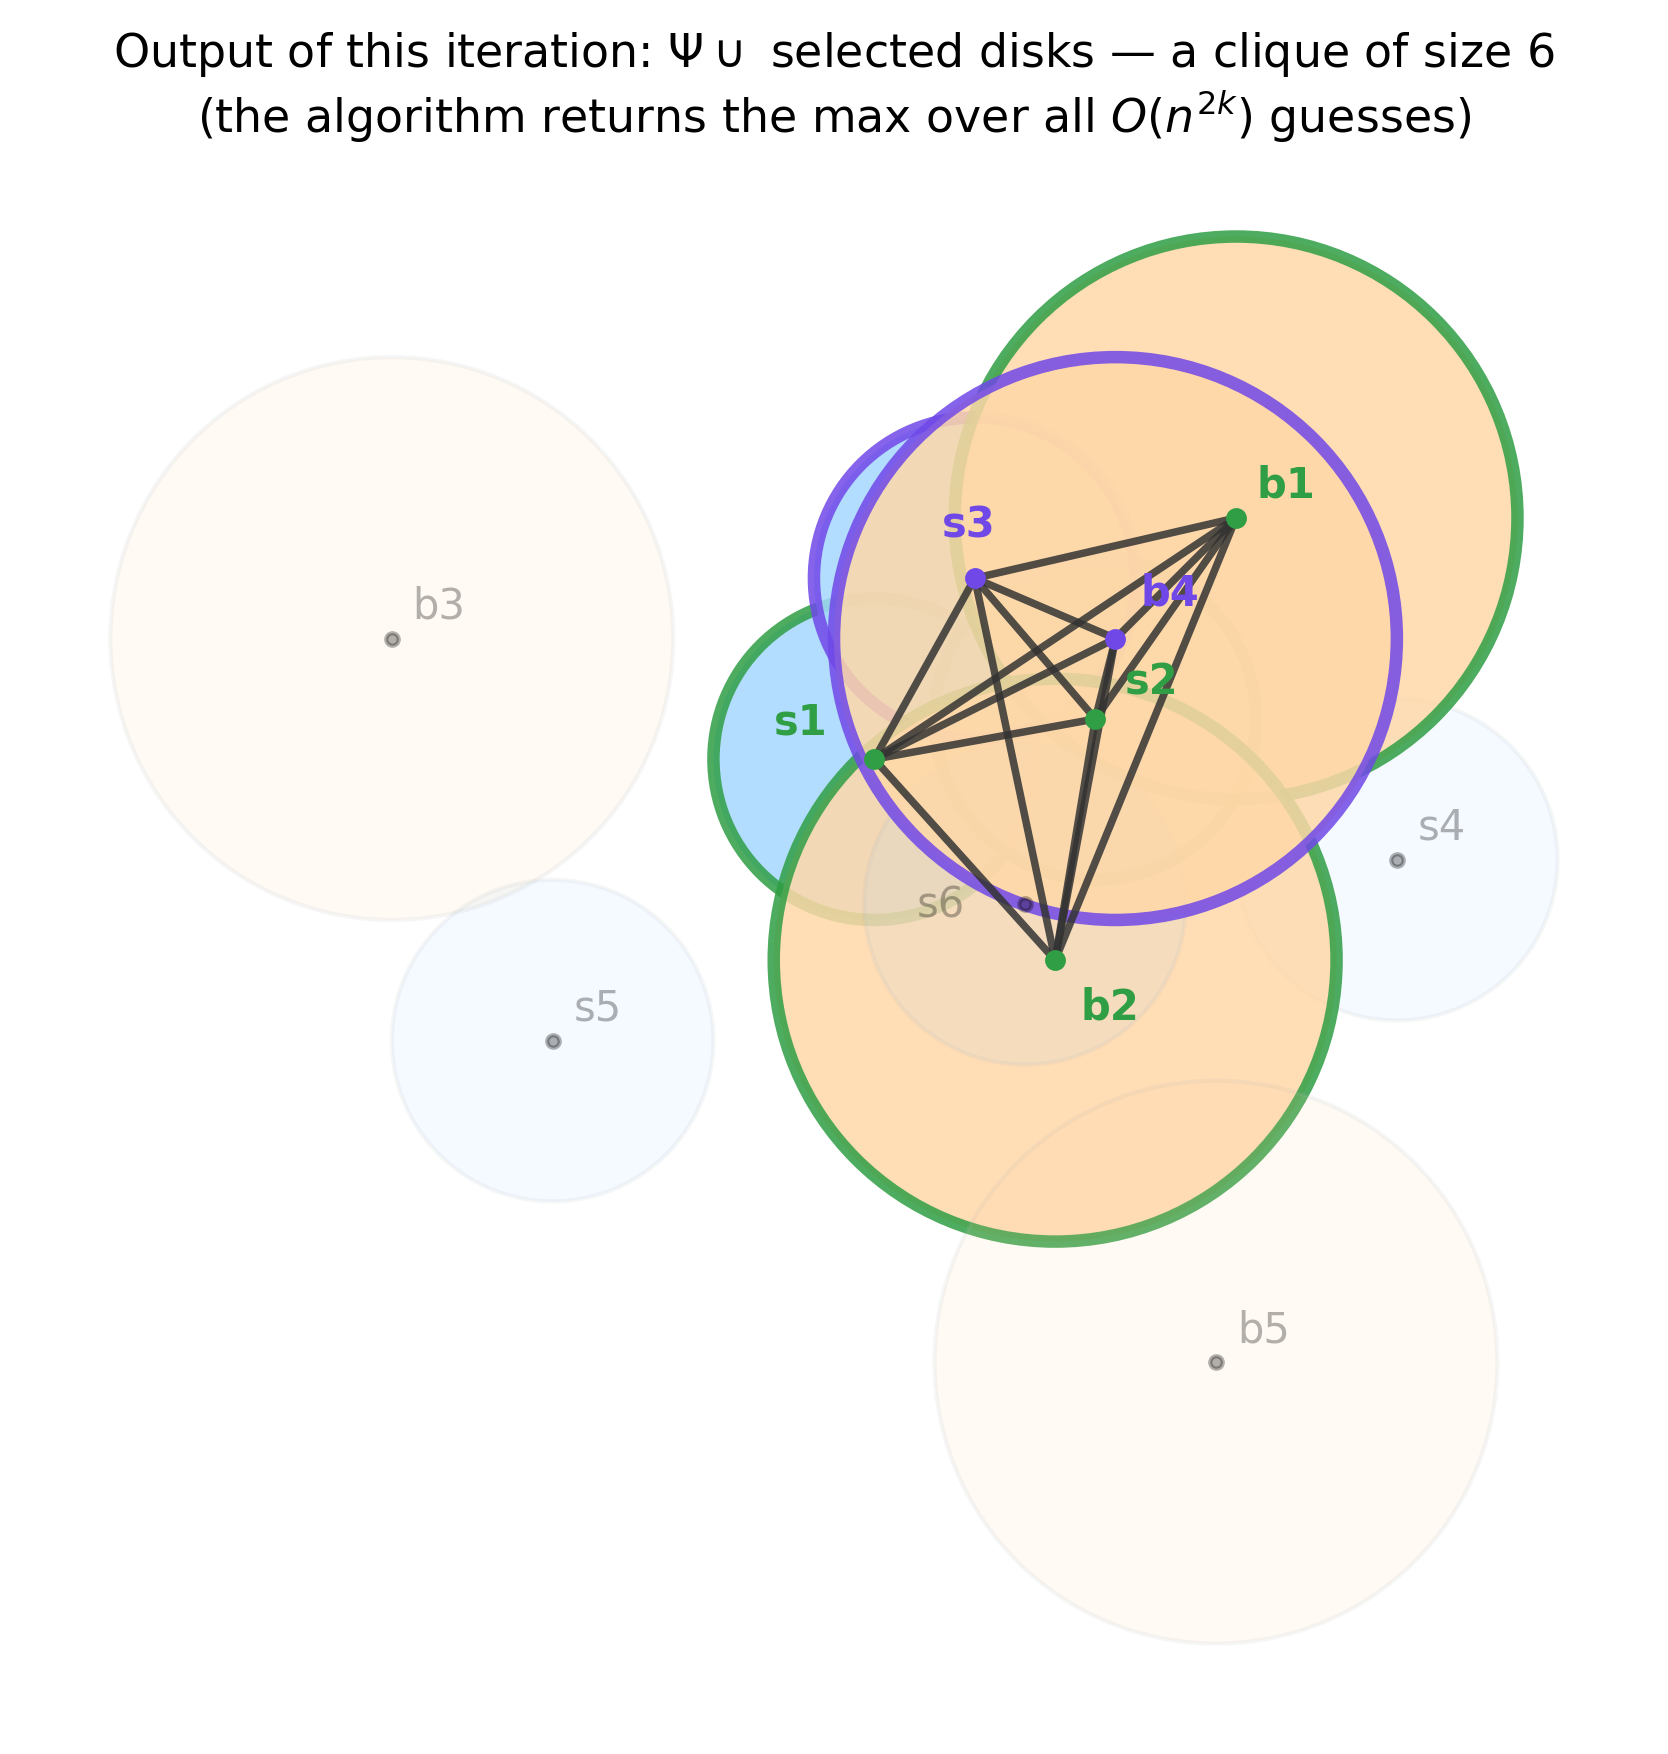
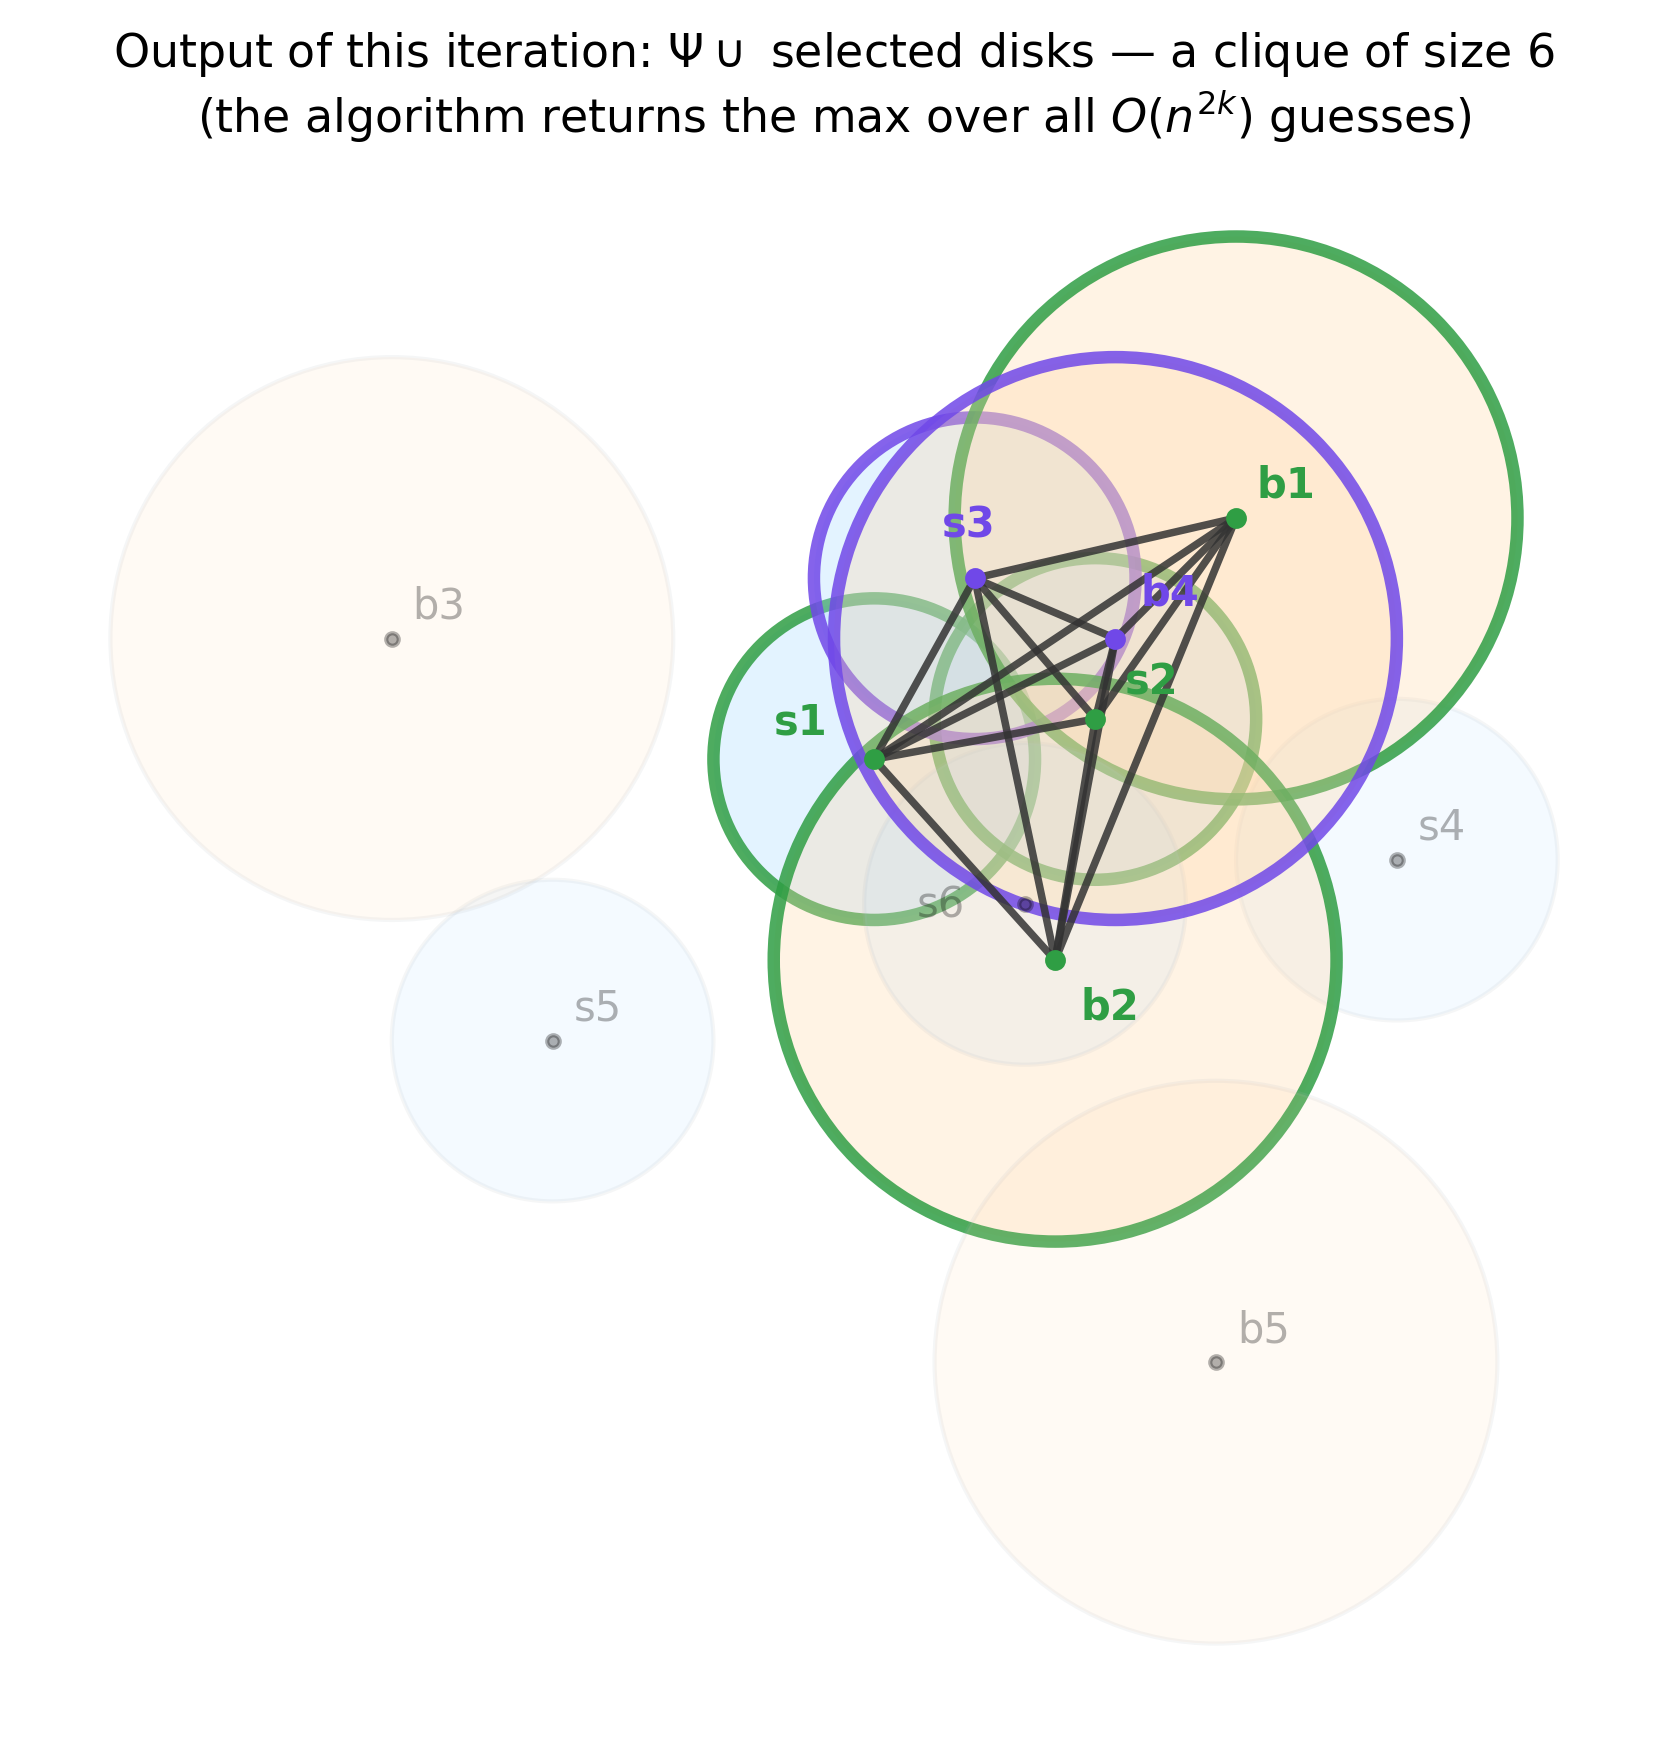
Polish round 3: fills recede, outlines lead
- _disk gains fill_alpha (independent fill transparency via RGBA)
- S5 both guess figures: context disks faded further (.18/.16)
- S6: non-anchor outlines fainter (.15)
- S7: survivor/anchor fills at .25 so outlines dominate; slabs now
  drawn OVER the disks (zorder 3.2) - center membership unmistakable
- S8/S9/S11: bold-camp fills at .3 so anchor outlines read through
- S10: suptitle given breathing room (tight_layout rect)

Changed region(s): [[0.4053, 0.1231, 0.9041, 0.7081]]

diff --git a/scene_figures.py b/scene_figures.py
@@ -181,12 +181,16 @@ def _base_axes(s, figsize=(8.2, 6.0)):
     return fig, ax
 
 def _disk(ax, s, i, edge, lw=1.2, alpha=.85, label_alpha=1.0, fill=True,
-          accent=False, ls="-"):
+          accent=False, ls="-", fill_alpha=None):
     """accent=True: the center point and the name label take the edge color,
     tying bold disks to their centers at a glance."""
+    from matplotlib.colors import to_rgba
+    fa = alpha if fill_alpha is None else fill_alpha
     ax.add_patch(Circle(s.pos[i], s.rad[i],
-                        facecolor=TYPE_FACE[s.typ[i]] if fill else "none",
-                        edgecolor=edge, alpha=alpha, lw=lw, ls=ls, zorder=2))
+                        facecolor=to_rgba(TYPE_FACE[s.typ[i]], fa)
+                        if fill else "none",
+                        edgecolor=to_rgba(edge, alpha), lw=lw, ls=ls,
+                        zorder=2))
     c = edge if accent else "k"
     ax.plot(*s.pos[i], "o", color=c, ms=4 if accent else 3,
             alpha=label_alpha, zorder=4)
@@ -270,7 +274,7 @@ def fig_type_classes(scene, save=None):
 # Chapter 3 — algorithm walk-through (storyboard S5-S7)
 # --------------------------------------------------------------------------
 
-def _shade_slabs(ax, a, alpha=.3):
+def _shade_slabs(ax, a, alpha=.3, zorder=0):
     """Per-type slab shading: solid above the anchor segment, hatched below."""
     s = a.s
     (_, _), (ylo, yhi) = _limits(s)[0], _limits(s)[1]
@@ -278,12 +282,13 @@ def _shade_slabs(ax, a, alpha=.3):
         xa, xb = sorted((s.pos[ai][0], s.pos[bi][0]))
         xs = np.linspace(xa, xb, 60)
         ys = np.array([a.seg_y(t, x) for x in xs])
-        ax.fill_between(xs, ys, yhi, color=TYPE_FACE[t], alpha=alpha, zorder=0)
-        ax.fill_between(xs, ylo, ys, color=TYPE_FACE[t], alpha=alpha, zorder=0,
-                        hatch="//", edgecolor="white", lw=0)
+        ax.fill_between(xs, ys, yhi, color=TYPE_FACE[t], alpha=alpha,
+                        zorder=zorder)
+        ax.fill_between(xs, ylo, ys, color=TYPE_FACE[t], alpha=alpha,
+                        zorder=zorder, hatch="//", edgecolor="white", lw=0)
         for xw in (xa, xb):
             ax.plot([xw, xw], [ylo, yhi], color=TYPE_EDGE[t], ls="--",
-                    lw=1.2, zorder=1)
+                    lw=1.2, zorder=zorder + 1)
 
 
 def _slab_legend_patches():
@@ -316,7 +321,7 @@ def fig_guess(ascene, save=None):
         if i in a.psi:
             _disk(ax, s, i, PSI_EDGE, lw=3.0, accent=True)
         else:
-            _disk(ax, s, i, TYPE_EDGE[s.typ[i]], alpha=.35, label_alpha=.6)
+            _disk(ax, s, i, TYPE_EDGE[s.typ[i]], alpha=.18, label_alpha=.45)
     _draw_anchor_segments(ax, a)
     names = {t: (s.name[ai], s.name[bi]) for t, (ai, bi) in a.guess.items()}
     ax.set_title(
@@ -339,7 +344,7 @@ def fig_invalid_guess(scene, pair, save=None):
         if m in (i, j):
             _disk(ax, s, m, "#e03131", lw=3.0, accent=True)
         else:
-            _disk(ax, s, m, TYPE_EDGE[s.typ[m]], alpha=.3, label_alpha=.5)
+            _disk(ax, s, m, TYPE_EDGE[s.typ[m]], alpha=.16, label_alpha=.4)
     mid = (s.pos[i] + s.pos[j]) / 2
     ax.plot(*np.c_[s.pos[i], s.pos[j]], color="#e03131", lw=2, ls="--")
     ax.annotate("✗", mid, fontsize=22, color="#e03131",
@@ -362,8 +367,8 @@ def fig_slabs(ascene, save=None):
             _disk(ax, s, i, PSI_EDGE, lw=3.0, alpha=.9, fill=False,
                   accent=True)
         else:
-            _disk(ax, s, i, TYPE_EDGE[s.typ[i]], lw=1.2, alpha=.25,
-                  label_alpha=.4, fill=False)
+            _disk(ax, s, i, TYPE_EDGE[s.typ[i]], lw=1.2, alpha=.15,
+                  label_alpha=.3, fill=False)
     _draw_anchor_segments(ax, a)
     ax.legend(handles=_psi_legend(_slab_legend_patches()),
               loc="lower left", fontsize=9)
@@ -379,20 +384,20 @@ def fig_filter(ascene, save=None):
     disk is discarded with its reason."""
     a, s = ascene, ascene.s
     fig, ax = _base_axes(s)
-    _shade_slabs(ax, a, alpha=.18)
     for i in range(s.n):
         if i in a.psi:
-            _disk(ax, s, i, PSI_EDGE, lw=3.0, accent=True)
+            _disk(ax, s, i, PSI_EDGE, lw=3.0, accent=True, fill_alpha=.25)
         elif i in a.X:
-            _disk(ax, s, i, X_EDGE, lw=3.0, accent=True)
+            _disk(ax, s, i, X_EDGE, lw=3.0, accent=True, fill_alpha=.25)
         elif i in a.Y:
-            _disk(ax, s, i, Y_EDGE, lw=3.0, accent=True)
+            _disk(ax, s, i, Y_EDGE, lw=3.0, accent=True, fill_alpha=.25)
         else:
             _disk(ax, s, i, "#adb5bd", lw=1.0, alpha=.10, label_alpha=.28)
             tag = "✗ slab" if a.reasons.get(i) == "slab" else "✗ misses $\\Psi$"
             ax.annotate(tag, s.pos[i], textcoords="offset points",
                         xytext=(0, -14), fontsize=8, ha="center",
                         color="#adb5bd", zorder=6)
+    _shade_slabs(ax, a, alpha=.22, zorder=3.2)   # slabs OVER the disks
     _draw_anchor_segments(ax, a)
     handles = _psi_legend((
         Line2D([], [], color=X_EDGE, lw=2.6,
@@ -420,7 +425,7 @@ def fig_x_clique(ascene, save=None):
     camp = a.X + a.psi
     for i in range(s.n):
         if i in a.X:
-            _disk(ax, s, i, X_EDGE, lw=3.0, accent=True)
+            _disk(ax, s, i, X_EDGE, lw=3.0, accent=True, fill_alpha=.3)
         elif i in a.psi:
             _disk(ax, s, i, PSI_EDGE, lw=2.2, alpha=.55, fill=False)
         elif i in a.Y:
@@ -458,9 +463,9 @@ def fig_missing_edges(ascene, save=None):
     fig, ax = _base_axes(s)
     for i in range(s.n):
         if i in a.X:
-            _disk(ax, s, i, X_EDGE, lw=3.0, accent=True)
+            _disk(ax, s, i, X_EDGE, lw=3.0, accent=True, fill_alpha=.3)
         elif i in a.Y:
-            _disk(ax, s, i, Y_EDGE, lw=3.0, accent=True)
+            _disk(ax, s, i, Y_EDGE, lw=3.0, accent=True, fill_alpha=.3)
         elif i in a.psi:
             _disk(ax, s, i, PSI_EDGE, lw=2.2, alpha=.5, fill=False)
         else:
@@ -527,7 +532,7 @@ def fig_complement(ascene, save=None):
         rf"{len(a.matching)} = {kx}$  →  chosen: "
         + "{" + ", ".join(s.name[i] for i in a.chosen) + "}",
         fontsize=12)
-    fig.tight_layout()
+    fig.tight_layout(rect=(0, 0, 1, 0.88))
     return _finish(fig, save)
 
 
@@ -539,7 +544,7 @@ def fig_assembly(ascene, save=None):
         if i in a.final:
             edge = PSI_EDGE if i in a.psi else (
                 X_EDGE if i in a.X else Y_EDGE)
-            _disk(ax, s, i, edge, lw=3.0, accent=True)
+            _disk(ax, s, i, edge, lw=3.0, accent=True, fill_alpha=.3)
         else:
             _disk(ax, s, i, "#adb5bd", lw=1.0, alpha=.12, label_alpha=.3)
     for i, j in itertools.combinations(a.final, 2):
